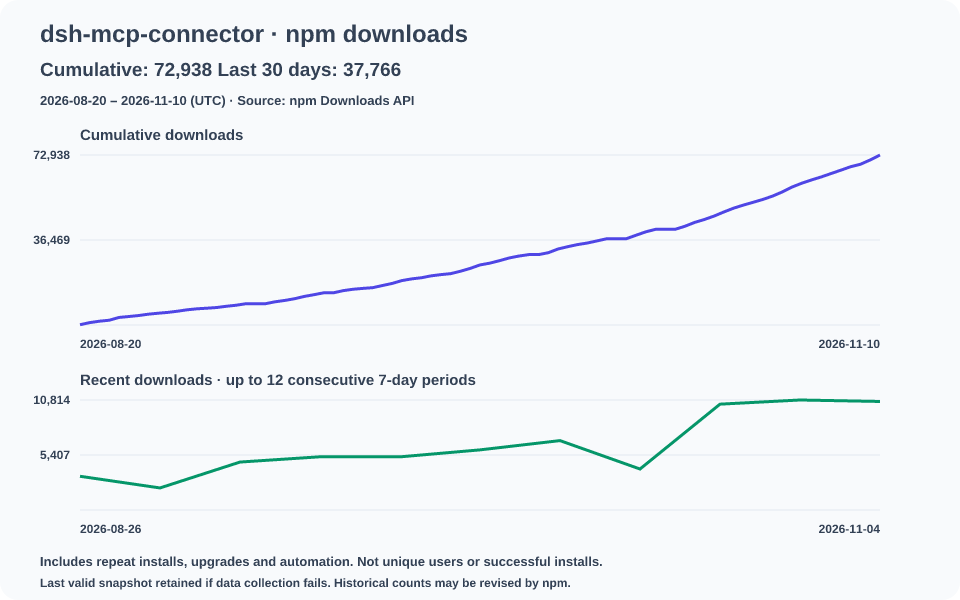
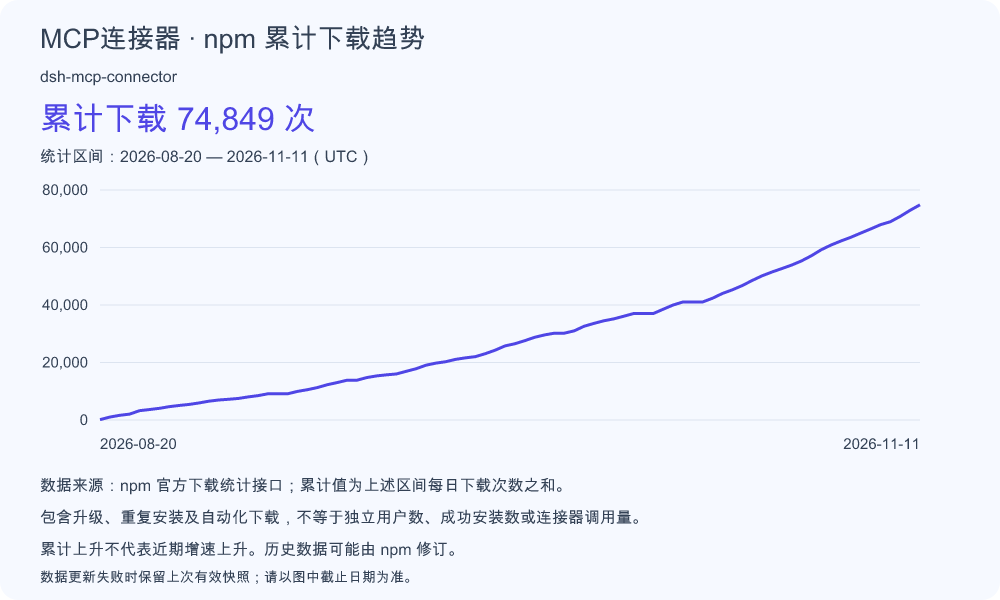
QMCP-2014 localize cumulative download chart and reposition README evidence

diff --git a/README.en.md b/README.en.md
@@ -1,9 +1,6 @@
 # MCP Connector: a Specialist Data Marketplace for DeepSeek Harness
 
-<!-- npm-download-trend:start -->
-[![npm download trend](https://raw.githubusercontent.com/duhu2000/dsh-mcp-connector/main/docs/metrics/npm-downloads.png)](https://github.com/duhu2000/dsh-mcp-connector/blob/main/docs/metrics/npm-downloads.json)
-npm downloads include upgrades, repeat installs and automation; they are not unique users or successful installs. The chart shows its UTC cutoff. [Install](#get-started) · [First successful connection](https://github.com/duhu2000/dsh-mcp-connector/blob/main/docs/tutorials/FIRST-SUCCESS-SCENARIOS.md)
-<!-- npm-download-trend:end -->
+
 
 > MCP Connector for DeepSeek Harness: a data marketplace connecting specialist providers and open data sources. Browse 100+ connectors, manage authorization, search tools and troubleshoot MCP connections.
 
@@ -42,6 +39,11 @@ Tool browsing does not execute target tools. Parameter summaries may omit comple
 [![License: MIT](https://img.shields.io/badge/License-MIT-yellow.svg)](LICENSE)
 [![Registry connectors](https://img.shields.io/badge/dynamic/json?url=https%3A%2F%2Fraw.githubusercontent.com%2Fduhu2000%2Fdsh-mcp-connector-registry%2Fmain%2Fcatalog-stats.json&query=%24.registryCount&label=Registry%20connectors&color=5865f2)](https://github.com/duhu2000/dsh-mcp-connector-registry/blob/main/catalog-stats.json)
 [![Marketplace cards](https://img.shields.io/badge/dynamic/json?url=https%3A%2F%2Fraw.githubusercontent.com%2Fduhu2000%2Fdsh-mcp-connector-registry%2Fmain%2Fcatalog-stats.json&query=%24.marketCount&label=Marketplace%20cards&color=16a34a)](https://github.com/duhu2000/dsh-mcp-connector-registry/blob/main/catalog-stats.json)
+
+<!-- npm-download-trend:start -->
+[![npm 累计下载趋势](https://raw.githubusercontent.com/duhu2000/dsh-mcp-connector/main/docs/metrics/npm-downloads.png)](https://github.com/duhu2000/dsh-mcp-connector/blob/main/docs/metrics/npm-downloads.json)
+npm downloads include upgrades, repeat installs and automation; they are not unique users or successful installs. The chart shows its UTC cutoff. [Install](#get-started) · [First successful connection](https://github.com/duhu2000/dsh-mcp-connector/blob/main/docs/tutorials/FIRST-SUCCESS-SCENARIOS.md)
+<!-- npm-download-trend:end -->
 
 ## Get started
 

diff --git a/README.md b/README.md
@@ -1,9 +1,6 @@
 # MCP连接器：DeepSeek Harness 的专业数据源市场
 
-<!-- npm-download-trend:start -->
-[![npm download trend](https://raw.githubusercontent.com/duhu2000/dsh-mcp-connector/main/docs/metrics/npm-downloads.png)](https://github.com/duhu2000/dsh-mcp-connector/blob/main/docs/metrics/npm-downloads.json)
-npm 下载次数包含升级、重复安装及自动化下载，不等于独立用户数或成功安装数；数据截止日期见图中 UTC 标注。[安装使用](#开始使用) · [首次成功教程](docs/tutorials/FIRST-SUCCESS-SCENARIOS.md)
-<!-- npm-download-trend:end -->
+
 
 > DeepSeek Harness 的 MCP 数据市场：汇聚各类垂直领域数据厂商与开放数据源，通过超百个 MCP连接器接入 MCP Server，统一授权、查找工具与连接排障。
 
@@ -54,6 +51,11 @@ Install with `dsh plugin --profile web add dsh-mcp-connector`, then select **EN*
 [![License: MIT](https://img.shields.io/badge/License-MIT-yellow.svg)](LICENSE)
 [![Registry connectors](https://img.shields.io/badge/dynamic/json?url=https%3A%2F%2Fraw.githubusercontent.com%2Fduhu2000%2Fdsh-mcp-connector-registry%2Fmain%2Fcatalog-stats.json&query=%24.registryCount&label=Registry%20connectors&color=5865f2)](https://github.com/duhu2000/dsh-mcp-connector-registry/blob/main/catalog-stats.json)
 [![Marketplace cards](https://img.shields.io/badge/dynamic/json?url=https%3A%2F%2Fraw.githubusercontent.com%2Fduhu2000%2Fdsh-mcp-connector-registry%2Fmain%2Fcatalog-stats.json&query=%24.marketCount&label=Marketplace%20cards&color=16a34a)](https://github.com/duhu2000/dsh-mcp-connector-registry/blob/main/catalog-stats.json)
+
+<!-- npm-download-trend:start -->
+[![npm 累计下载趋势](https://raw.githubusercontent.com/duhu2000/dsh-mcp-connector/main/docs/metrics/npm-downloads.png)](https://github.com/duhu2000/dsh-mcp-connector/blob/main/docs/metrics/npm-downloads.json)
+npm 下载次数包含升级、重复安装及自动化下载，不等于独立用户数或成功安装数；数据截止日期见图中 UTC 标注。[安装使用](#开始使用) · [首次成功教程](docs/tutorials/FIRST-SUCCESS-SCENARIOS.md)
+<!-- npm-download-trend:end -->
 
 ## 开始使用
 

diff --git a/docs/metrics/README.md b/docs/metrics/README.md
@@ -2,8 +2,9 @@
 
 Source: npm public Downloads API, package `dsh-mcp-connector`. Daily UTC counts
 are collected from npm package creation date through the last available day.
-Cumulative counts are summed over that exact range; recent periods are complete
-consecutive seven-day bins ending at the cutoff (not calendar weeks).
+The Chinese chart shows only cumulative counts summed over that exact range.
+An increasing cumulative total does not imply accelerating recent growth.
+The PNG renderer uses Noto CJK fonts in CI to preserve Chinese labels.
 
 Downloads include upgrades, repeat installations and automation. These are not
 unique users, successful installations or connector-card connection counts.
